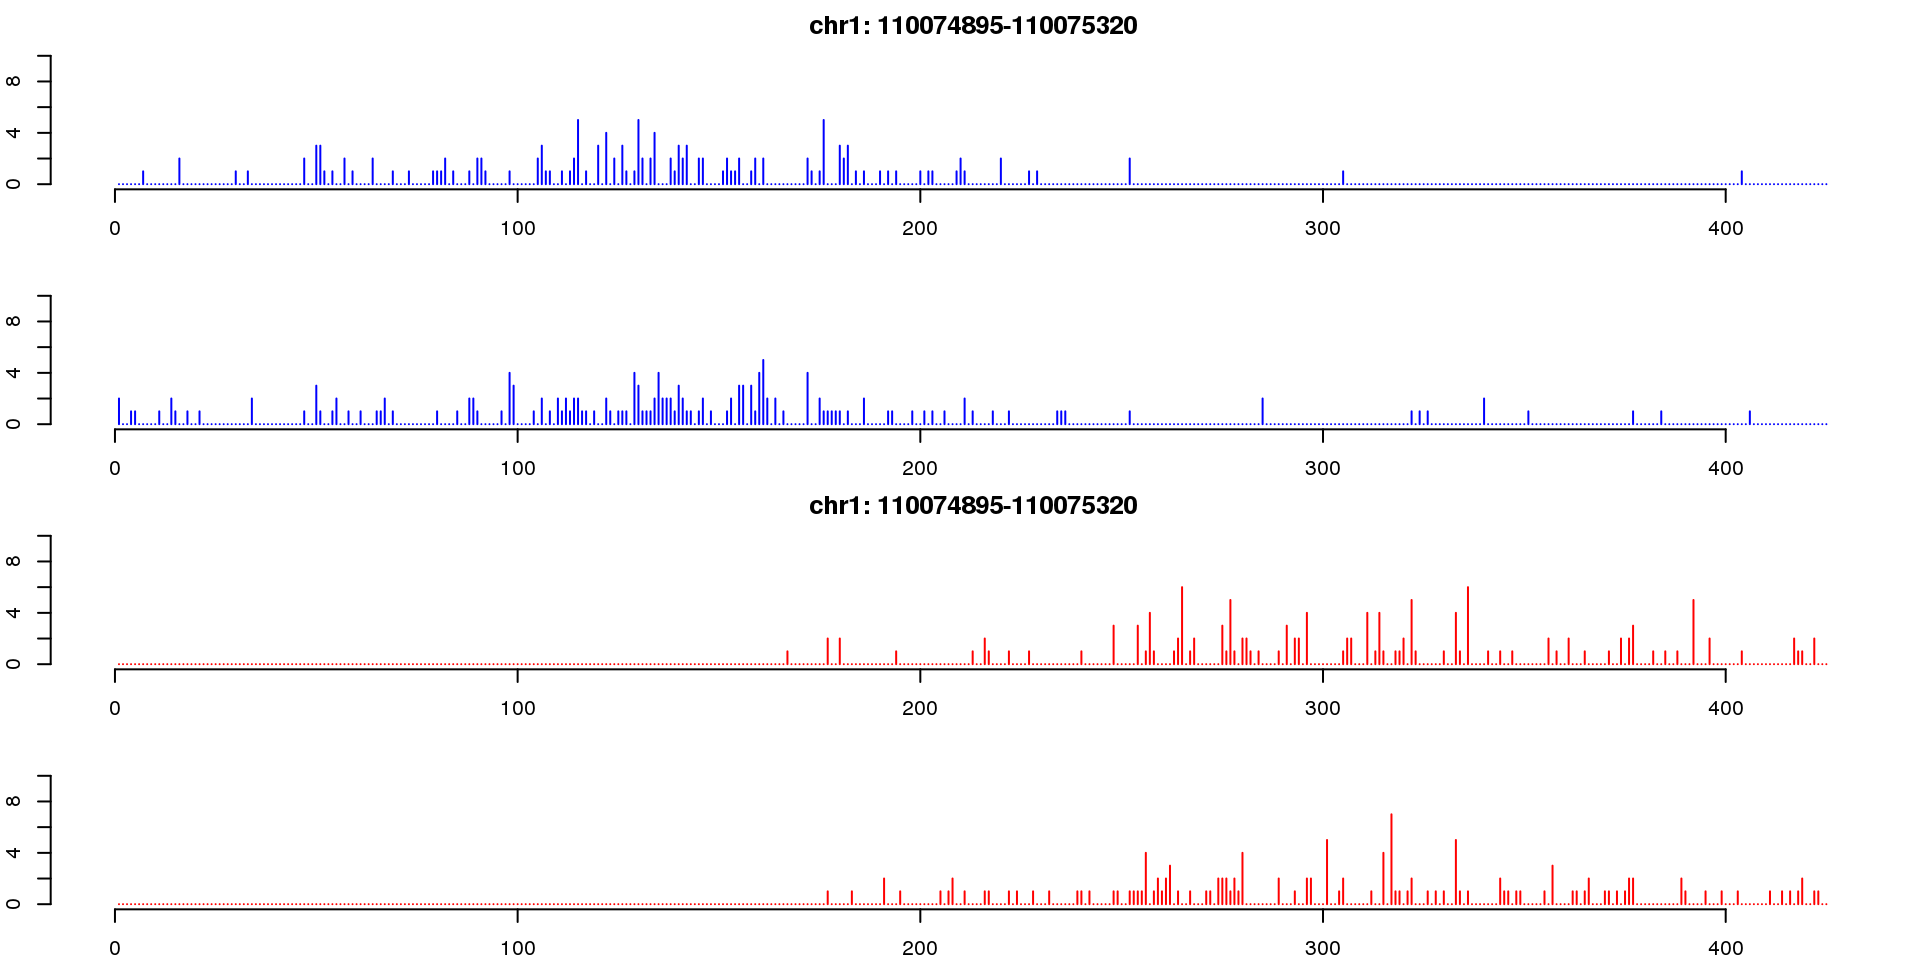
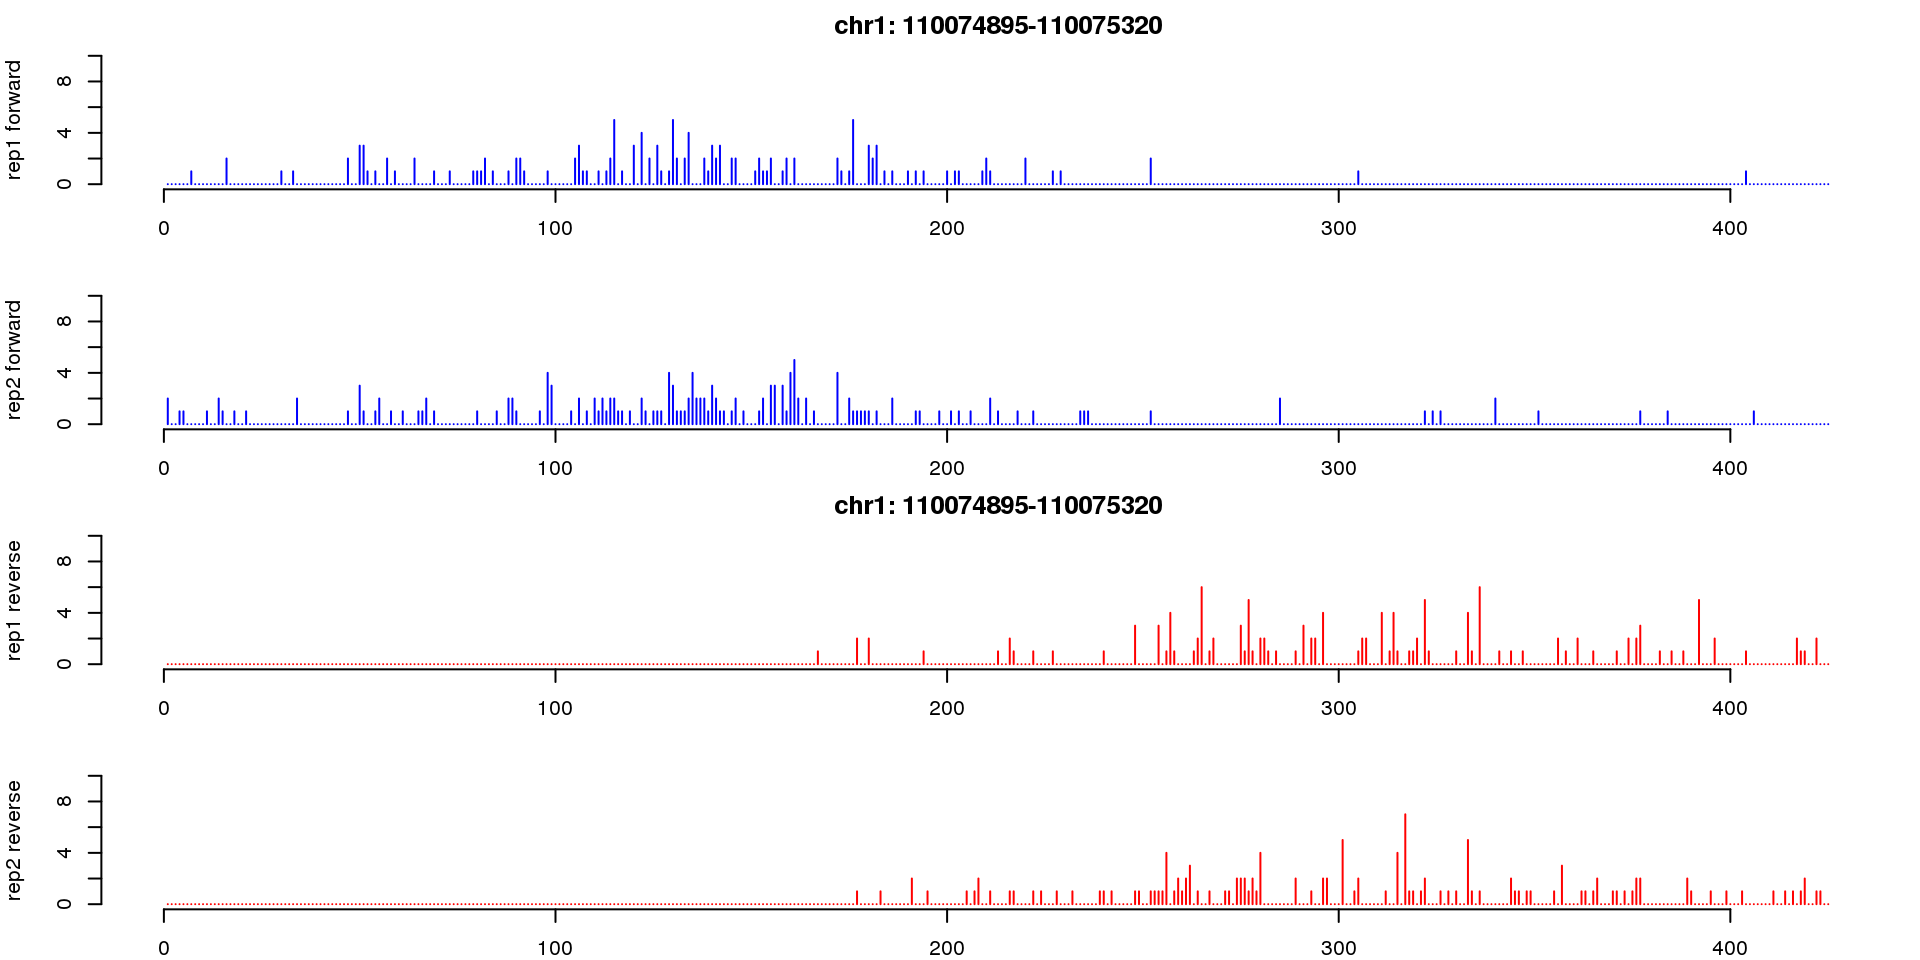
Build site.

diff --git a/docs/chipseq_CTCF_encode.html b/docs/chipseq_CTCF_encode.html
@@ -324,7 +324,7 @@ shared across the workflowr files. -->
 <p><strong>Last updated:</strong> 2018-04-10</p>
 <!-- Insert the code version (Git commit SHA1) if Git repository exists and R
 package git2r is installed -->
-<p><strong>Code version:</strong> 915a097</p>
+<p><strong>Code version:</strong> 3fc8ce0</p>
 <!-- Add your analysis here -->
 <div id="download-bam-files-from-encode-then-get-5-end-counts-in-bigwig-format" class="section level2">
 <h2>Download BAM files from ENCODE, then get 5’ end counts in bigwig format</h2>
@@ -419,7 +419,7 @@ counts_UTA_rep2_reverse.l &lt;- extract_counts(file.path(dir_examples, &quot;exa
 <pre class="r"><code>title &lt;- paste0(counts_broad_rep1_forward.l$chr, &quot;: &quot;, counts_broad_rep1_forward.l$start, &quot;-&quot;,counts_broad_rep1_forward.l$end)
 
 par(mfcol = c(4,1))
-par(mar = c(2,2,2,1))
+par(mar = c(2,4,2,1))
 par(bty=&quot;n&quot;)
 plot(counts_broad_rep1_forward.l$counts, main = title, type = &quot;h&quot;, col = &quot;blue&quot;, ylab = &quot;rep1 forward&quot;, xlab = &quot;&quot;, ylim = c(0,10))
 plot(counts_broad_rep2_forward.l$counts, type = &quot;h&quot;, col = &quot;blue&quot;, ylab = &quot;rep2 forward&quot;, xlab = &quot;&quot;, ylim = c(0,10))
@@ -432,7 +432,7 @@ plot(counts_broad_rep2_reverse.l$counts, type = &quot;h&quot;, col = &quot;red&q
 <pre class="r"><code>title &lt;- paste0(counts_UTA_rep1_forward.l$chr, &quot;: &quot;, counts_UTA_rep1_forward.l$start, &quot;-&quot;,counts_UTA_rep1_forward.l$end)
 
 par(mfcol = c(4,1))
-par(mar = c(2,2,2,1))
+par(mar = c(2,4,2,1))
 par(bty=&quot;n&quot;)
 plot(counts_UTA_rep1_forward.l$counts, main = title, type = &quot;h&quot;, col = &quot;blue&quot;, ylab = &quot;rep1 forward&quot;, xlab = &quot;&quot;, ylim = c(0,10))
 plot(counts_UTA_rep2_forward.l$counts, type = &quot;h&quot;, col = &quot;blue&quot;, ylab = &quot;rep2 forward&quot;, xlab = &quot;&quot;, ylim = c(0,10))
